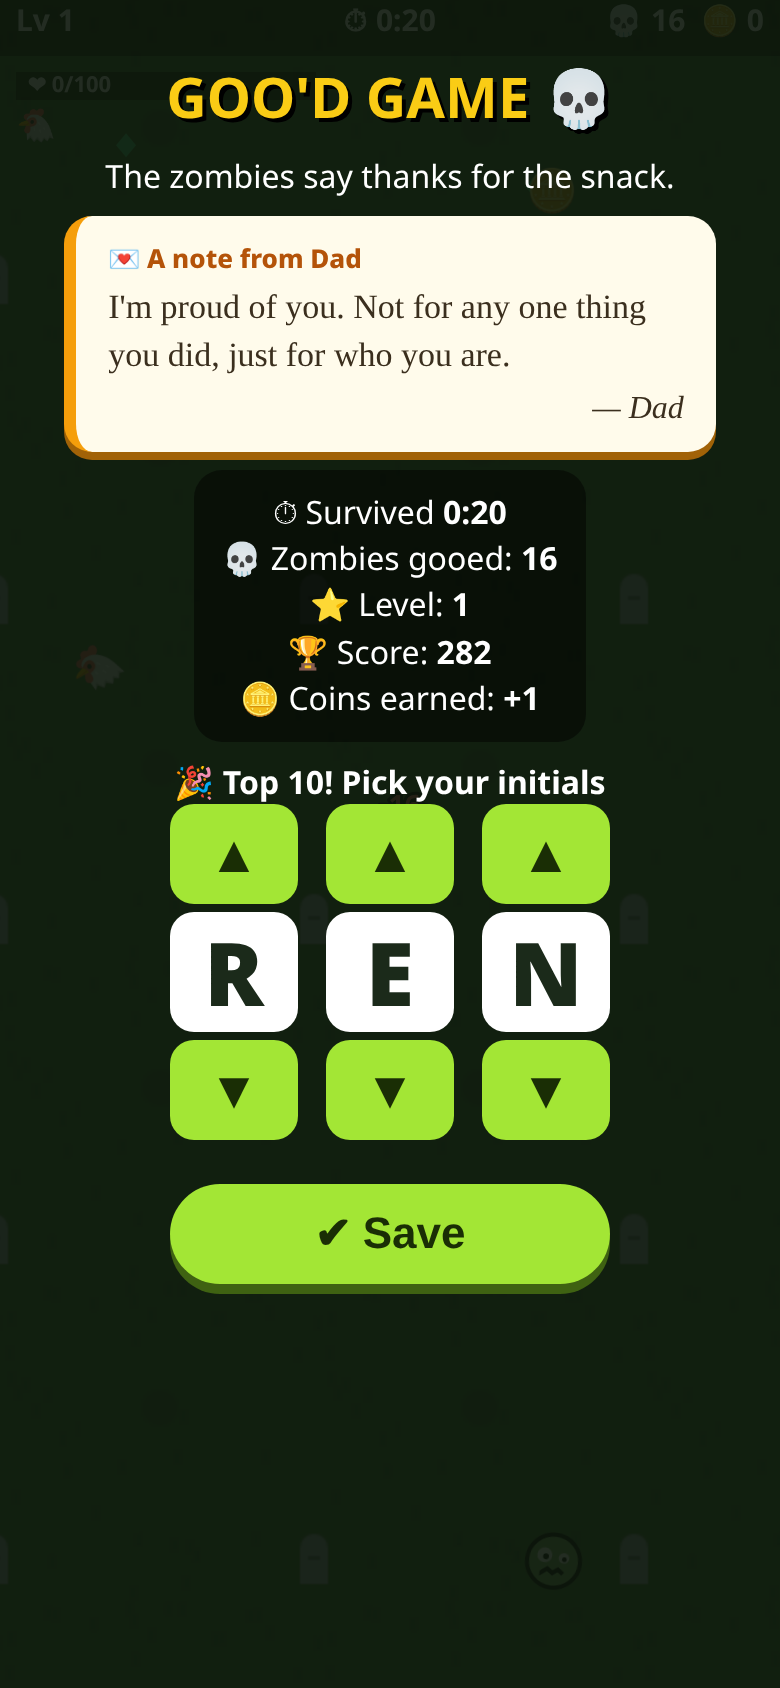
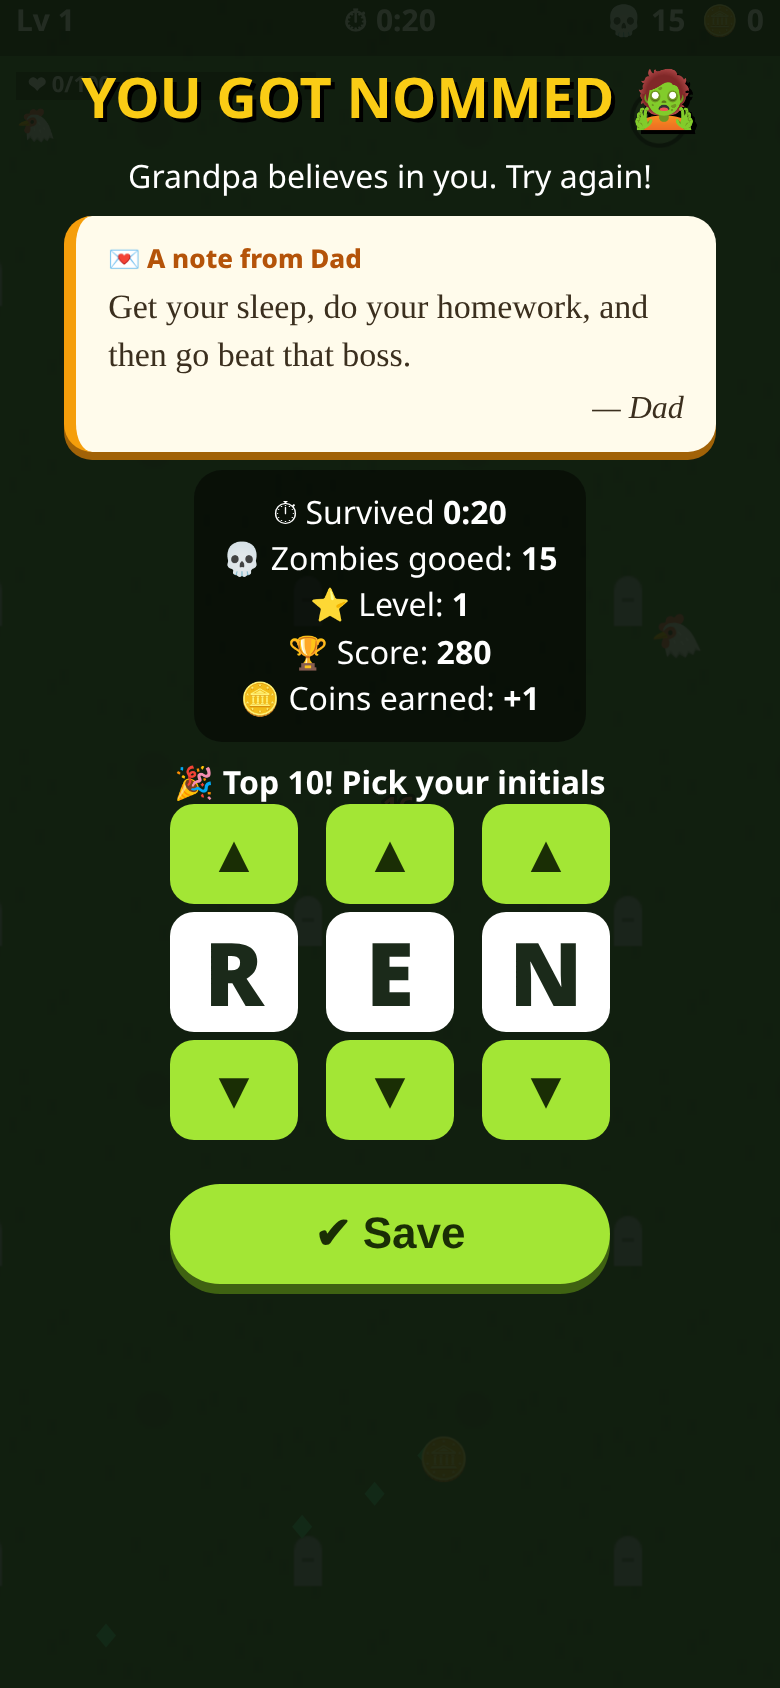
Geneva 1599 verse every 10th death (verses.js); SW v7

diff --git a/verses.js b/verses.js
@@ -1,0 +1,30 @@
+// Geneva Bible (1599) passages, shown on every 10th game over (no repeats until all are used).
+// Text copied from Bible Gateway's GNV edition (public domain), original spelling kept.
+// Edit freely: each entry has the reference (ref) and the text.
+window.GENEVA_VERSES = [
+  {"ref": "Joshua 1:9 (Geneva 1599)", "text": "Have not I commanded thee, saying, Be strong and of a good courage, fear not, nor be discouraged? for I the Lord thy God will be with thee whithersoever thou goest."},
+  {"ref": "Isaiah 40:31 (Geneva 1599)", "text": "But they that wait upon the Lord, shall renew their strength: they shall lift up the wings, as the eagles: they shall run, and not be weary, and they shall walk and not faint."},
+  {"ref": "1 Corinthians 13:4-7 (Geneva 1599)", "text": "Love suffereth long: it is bountiful: love envieth not: love doth not boast itself: it is not puffed up: It doth no uncomely thing: it seeketh not her own thing: it is not provoked to anger: it thinketh no evil: It rejoiceth not in iniquity, but rejoiceth in the truth: It suffereth all things: it believeth all things: it hopeth all things: it endureth all things."},
+  {"ref": "1 Corinthians 16:13-14 (Geneva 1599)", "text": "Watch ye: stand fast in the faith: quit you like men, and be strong. Let all your things be done in love."},
+  {"ref": "Micah 6:8 (Geneva 1599)", "text": "He hath showed thee, O man, what is good, and what the Lord requireth of thee: surely to do justly, and to love mercy, and to humble thyself, to walk with thy God."},
+  {"ref": "Proverbs 3:5-6 (Geneva 1599)", "text": "Trust in the Lord with all thine heart, and lean not unto thine own wisdom. In all thy ways acknowledge him, and he shall direct thy ways."},
+  {"ref": "Galatians 6:9 (Geneva 1599)", "text": "Let us not therefore be weary of well doing: for in due season we shall reap, if we faint not."},
+  {"ref": "James 1:12 (Geneva 1599)", "text": "Blessed is the man, that endureth tentation: for when he is tried, he shall receive the crown of life, which the Lord hath promised to them that love him."},
+  {"ref": "Philippians 4:13 (Geneva 1599)", "text": "I am able to do all things through the help of Christ, which strengtheneth me."},
+  {"ref": "2 Timothy 1:7 (Geneva 1599)", "text": "For God hath not given to us the Spirit of fear, but of power, and of love, and of a sound mind."},
+  {"ref": "Hebrews 12:1 (Geneva 1599)", "text": "Wherefore, let us also, seeing that we are compassed with so great a cloud of witnesses, cast away everything that presseth down, and the sin that hangeth so fast on: let us run with patience the race that is set before us …"},
+  {"ref": "Deuteronomy 31:6 (Geneva 1599)", "text": "Pluck up your hearts therefore, and be strong: dread not, nor be afraid of them: for the Lord thy God himself doth go with thee: he will not fail thee, nor forsake thee."},
+  {"ref": "Psalm 46:1 (Geneva 1599)", "text": "God is our hope and strength, and help in troubles, ready to be found."},
+  {"ref": "Proverbs 4:23 (Geneva 1599)", "text": "Keep thine heart with all diligence: for thereout cometh life."},
+  {"ref": "Proverbs 22:1 (Geneva 1599)", "text": "A good name is to be chosen above great riches, and loving favor is above silver and above gold."},
+  {"ref": "Romans 5:3-4 (Geneva 1599)", "text": "Neither that only, but also we rejoice in tribulations, knowing that tribulation bringeth forth patience. And patience experience, and experience hope."},
+  {"ref": "Romans 8:28 (Geneva 1599)", "text": "Also we know that all things work together for the best unto them that love God, even to them that are called of his purpose."},
+  {"ref": "Colossians 3:23 (Geneva 1599)", "text": "And whatsoever ye do, do it heartily, as to the Lord, and not to men …"},
+  {"ref": "1 Timothy 4:12 (Geneva 1599)", "text": "Let no man despise thy youth, but be unto them that believe, an ensample, in word, in conversation, in love, in spirit, in faith and in pureness."},
+  {"ref": "Psalm 121:1-2 (Geneva 1599)", "text": "I will lift up mine eyes unto the mountains, from whence my help shall come. Mine help cometh from the Lord, which hath made the heaven and the earth."},
+  {"ref": "Isaiah 41:10 (Geneva 1599)", "text": "Fear thou not, for I am with thee: be not afraid, for I am thy God: I will strengthen thee, and help thee, and will sustain thee with the right hand of my justice."},
+  {"ref": "Matthew 11:28 (Geneva 1599)", "text": "Come unto me, all ye that are weary and laden, and I will ease you."},
+  {"ref": "2 Corinthians 4:16 (Geneva 1599)", "text": "Therefore we faint not, but though our outward man perish, yet the inward man is renewed daily."},
+  {"ref": "Psalm 27:14 (Geneva 1599)", "text": "Hope in the Lord: be strong, and he shall comfort thine heart, and trust in the Lord."},
+  {"ref": "Proverbs 16:3 (Geneva 1599)", "text": "Commit thy works unto the Lord, and thy thoughts shall be directed."}
+];

diff --git a/index.html b/index.html
@@ -34,6 +34,8 @@ table{border-collapse:collapse;font-size:14px;background:#0007;border-radius:12p
 #mapC{width:360px;height:420px;max-width:96vw;background:#e7d8a8;border:4px solid #000;border-radius:8px}
 #dadNote{background:#fffbeb;color:#3b2f1e;border-radius:14px;padding:12px 16px;max-width:340px;width:90%;box-sizing:border-box;text-align:left;box-shadow:0 4px 0 #a16207;border-left:6px solid #f59e0b;flex-shrink:0}
 .dadT{font-size:13px;font-weight:800;color:#b45309;margin-bottom:4px}.dadB{font-size:17px;line-height:1.4;font-family:Georgia,serif}.dadS{text-align:right;font-style:italic;margin-top:6px;font-family:Georgia,serif}
+#verseCard{background:linear-gradient(#e9d5a1,#f5e6c4 12%,#f5e6c4 88%,#e9d5a1);color:#3f2a12;border-radius:6px;padding:14px 18px;max-width:340px;width:90%;box-sizing:border-box;text-align:center;border-top:7px solid #8b5a2b;border-bottom:7px solid #8b5a2b;box-shadow:0 4px 10px #0008;flex-shrink:0}
+.vT{font-size:13px;font-weight:800;color:#7c2d12;margin-bottom:6px}.vB{font-size:16px;line-height:1.45;font-family:Georgia,serif;font-style:italic}.vR{margin-top:8px;font-size:13px;font-weight:700;font-family:Georgia,serif}
 </style></head><body>
 <canvas id="c"></canvas>
 <button id="pauseB" class="hidden" aria-label="Pause">⏸</button>
@@ -50,12 +52,12 @@ table{border-collapse:collapse;font-size:14px;background:#0007;border-radius:12p
 <div class="screen hidden" id="shop"><h2>🛒 Garage Sale of Power</h2><p id="shopCoins" class="card"></p><div id="shopList" style="display:flex;flex-direction:column;gap:8px;align-items:center;width:100%"></div><button class="btn sm" id="shopBack">⬅ Back</button></div>
 <div class="screen hidden" id="lvl" style="background:#0d170cd0"><h2 id="lvlT">LEVEL UP! 🎉</h2><p id="lvlSub">Pick one. Choose wisely. Or don't, it's your apocalypse.</p><div id="cards" style="display:flex;flex-direction:column;gap:10px;align-items:center;width:100%"></div></div>
 <div class="screen center hidden" id="paused"><h2>⏸ Paused</h2><div id="pauseInfo" class="card" style="max-width:360px;text-align:left"></div><button class="btn" id="resumeB">▶ Resume</button><button class="btn sm alt" id="quitB">🏳 Quit run</button></div>
-<div class="screen hidden" id="over"><h2 id="overT">GOO'D GAME 💀</h2><p id="overSub"></p><div id="dadNote" class="hidden"></div><div id="res" class="card"></div>
+<div class="screen hidden" id="over"><h2 id="overT">GOO'D GAME 💀</h2><p id="overSub"></p><div id="dadNote" class="hidden"></div><div id="verseCard" class="hidden"></div><div id="res" class="card"></div>
 <div id="ini" class="hidden"><p><b>🎉 Top 10! Pick your initials</b></p><div id="iniCols"></div><br><button class="btn" id="iniSave">✔ Save</button></div>
 <div id="overBoard"></div><div id="overBtns" style="display:flex;flex-direction:column;gap:10px;align-items:center"><button class="btn" id="againB">🔁 Again</button><button class="btn sm alt" id="homeB">🏠 Home</button></div></div>
 <div class="screen hidden" id="board"><h2 id="boardTitle">🏆 Top 10</h2><div id="boardList"></div><button class="btn sm" id="boardBack">⬅ Back</button></div>
-<script src="dadnotes.js?v=6"></script><script src="game.js?v=6"></script>
-<script>if('serviceWorker'in navigator&&location.protocol!=='file:')navigator.serviceWorker.register('sw.js?v=6');
+<script src="dadnotes.js?v=7"></script><script src="verses.js?v=7"></script><script src="game.js?v=7"></script>
+<script>if('serviceWorker'in navigator&&location.protocol!=='file:')navigator.serviceWorker.register('sw.js?v=7');
 let deferredPrompt=null;const ib=document.getElementById("installBtn"),hp=document.getElementById("installHelp");
 const standalone=()=>matchMedia("(display-mode: standalone)").matches||matchMedia("(display-mode: fullscreen)").matches||navigator.standalone;
 if(standalone())ib.classList.add("hidden");

diff --git a/game.js b/game.js
@@ -380,8 +380,9 @@ function renderShop(){$("shopCoins").textContent="🪙 "+save.coins+" coins";con
  b.textContent=lv>=s.m?"MAX":"🪙 "+cost;b.disabled=lv>=s.m||save.coins<cost;b.onclick=()=>{save.coins-=cost;save.shop[k]=lv+1;persist();sfx("coin");renderShop()};d.appendChild(b);l.appendChild(d)}}
 $("heroB").onclick=()=>{renderHeroes();show("heroes")};$("heroBack").onclick=goTitle;$("shopB").onclick=()=>{renderShop();show("shop")};$("shopBack").onclick=goTitle;
 
-function nextDadNote(){const N=window.DAD_NOTES||[];if(!N.length)return"";let bag=LS.get("dadbag",[]).filter(i=>i<N.length);if(!bag.length){bag=N.map((_,i)=>i);for(let i=bag.length-1;i>0;i--){const j=Math.floor(Math.random()*(i+1));[bag[i],bag[j]]=[bag[j],bag[i]]}const lastN=LS.get("dadlast",-1);if(bag.length>1&&bag[bag.length-1]===lastN)[bag[0],bag[bag.length-1]]=[bag[bag.length-1],bag[0]]}
- const i=bag.pop();LS.set("dadbag",bag);LS.set("dadlast",i);return N[i]}
+function nextDadNote(){return bagPick(window.DAD_NOTES,"dad")}
+function bagPick(N,key){N=N||[];if(!N.length)return null;let bag=LS.get(key+"bag",[]).filter(i=>i<N.length);if(!bag.length){bag=N.map((_,i)=>i);for(let i=bag.length-1;i>0;i--){const j=Math.floor(Math.random()*(i+1));[bag[i],bag[j]]=[bag[j],bag[i]]}const lastN=LS.get(key+"last",-1);if(bag.length>1&&bag[bag.length-1]===lastN)[bag[0],bag[bag.length-1]]=[bag[bag.length-1],bag[0]]}
+ const i=bag.pop();LS.set(key+"bag",bag);LS.set(key+"last",i);return N[i]}
 // end of run & board
 let pendingScore=null;
 function score(){return Math.floor(G.t)*10+G.kills*2+G.lvl*50}
@@ -389,6 +390,7 @@ function endRun(won,quit){if(state==="over")return;state="over";$("pauseB").clas
  let finale=false;if(won&&G.mode==="journey"){if(!prog().cleared.includes(G.stage))prog().cleared.push(G.stage);if(G.stage===LAST)finale=true;else prog().stage=Math.max(prog().stage,G.stage+1)}persist();
  const mm=Math.floor(G.t/60),ss=String(Math.floor(G.t%60)).padStart(2,"0");const sc=score();
  const dn=$("dadNote");if(!won&&!quit){const n=nextDadNote();if(n){dn.innerHTML='<div class="dadT">💌 A note from Dad</div><div class="dadB"></div><div class="dadS">— Dad</div>';dn.querySelector(".dadB").textContent=n;dn.classList.remove("hidden")}else dn.classList.add("hidden")}else dn.classList.add("hidden");
+ const vc=$("verseCard");vc.classList.add("hidden");if(!won&&!quit){const dc=LS.get("deaths",0)+1;LS.set("deaths",dc);if(dc%10===0){const v=bagPick(window.GENEVA_VERSES,"verse");if(v){vc.innerHTML='<div class="vT">📜 A word for the road</div><div class="vB"></div><div class="vR"></div>';vc.querySelector(".vB").textContent=v.text;vc.querySelector(".vR").textContent="— "+v.ref;vc.classList.remove("hidden")}}}
  $("overT").textContent=won?"STAGE CLEARED! 🎉":quit?"Run abandoned 🏳":pick(["GOO'D GAME 💀","YOU GOT NOMMED 🧟","BRAAAINS... yours. 🧠"]);
  $("overSub").textContent=won?(finale?"You made it HOME!":"Next stop: "+STAGES[G.stage+1].n):pick(["The zombies say thanks for the snack.","Grandpa believes in you. Try again!","Leo is still waiting! Get back out there."]);
  $("res").innerHTML=`⏱ Survived <b>${mm}:${ss}</b><br>💀 Zombies gooed: <b>${G.kills}</b><br>⭐ Level: <b>${G.lvl}</b><br>🏆 Score: <b>${sc}</b><br>🪙 Coins earned: <b>+${earned}</b>`;
@@ -408,4 +410,4 @@ $("topB").onclick=()=>{$("boardTitle").textContent="🏆 Top 10 — "+DIFF[save.
 
 buildSprites();goTitle();requestAnimationFrame(loop);
 // test hooks
-window.__rs={nearest,prog,get G(){return G},get state(){return state},ent,save:()=>save,options,choose,spawnZ,openCards,endRun,stat,fps:()=>fps};
+window.__rs={bagPick,nearest,prog,get G(){return G},get state(){return state},ent,save:()=>save,options,choose,spawnZ,openCards,endRun,stat,fps:()=>fps};

diff --git a/sw.js b/sw.js
@@ -1,5 +1,5 @@
-const VER="6",CACHE="remysurv-v"+VER;
-const SHELL=["./","index.html","dadnotes.js?v=6","game.js?v=6","manifest.webmanifest","icons/icon-192.png","icons/icon-512.png","icons/maskable-512.png"];
+const VER="7",CACHE="remysurv-v"+VER;
+const SHELL=["./","index.html","dadnotes.js?v=7","verses.js?v=7","game.js?v=7","manifest.webmanifest","icons/icon-192.png","icons/icon-512.png","icons/maskable-512.png"];
 self.addEventListener("install",e=>{e.waitUntil(caches.open(CACHE).then(c=>c.addAll(SHELL.map(u=>new Request(u,{cache:"reload"})))).then(()=>self.skipWaiting()))});
 self.addEventListener("activate",e=>{e.waitUntil(caches.keys().then(ks=>Promise.all(ks.filter(k=>k.startsWith("remysurv-")&&k!==CACHE).map(k=>caches.delete(k)))).then(()=>self.clients.claim()))});
 self.addEventListener("fetch",e=>{const r=e.request;if(r.method!=="GET"||new URL(r.url).origin!==location.origin)return;
